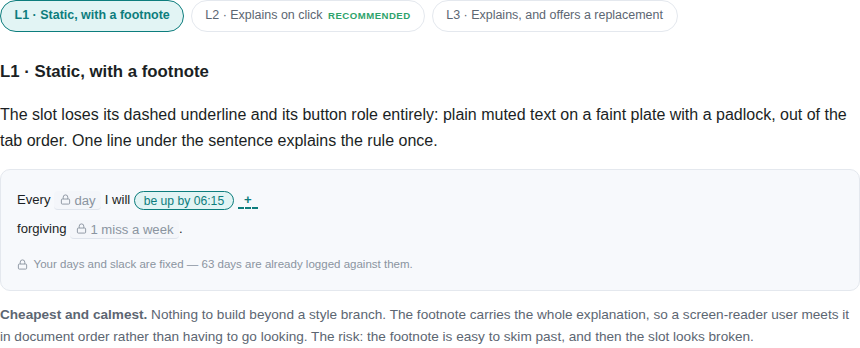
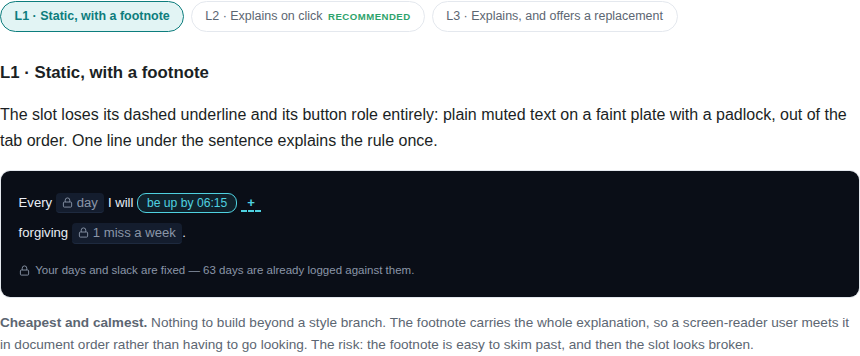
docs(demos): reshoot the option strips in the app's palette

diff --git a/docs/demos/alf-151-habit-edit-spec/spec.md b/docs/demos/alf-151-habit-edit-spec/spec.md
@@ -6,7 +6,7 @@ branch: claude/alf-151-patch-delete-spec-vft598
 
 *2026-07-29T18:18:28.127Z*
 
-This is a **refinement** branch: its deliverable is the spec at `docs/specs/ALF-151.html`, not app behavior. That spec asks the owner to pick between options, so it carries two CSS-only tab strips — the evidence below is that those work in a plain browser, with every option's mockup drawn.
+This is a **refinement** branch: its deliverable is the spec at `docs/specs/ALF-151.html`, not app behavior. That spec asks the owner to pick between options, so it carries two CSS-only tab strips — the evidence below is that those work in a plain browser, with every option's mockup drawn. The mockups use alfred's own dark palette, lifted value-for-value from `frontend/app/globals.css` and the atoms, so an option is judged in the colours it would actually ship in.
 
 The interactivity is pure CSS — radio inputs plus `:checked ~` sibling rules — so the page needs no script and no network, which is what makes it render faithfully through the PR's htmlpreview link.
 
